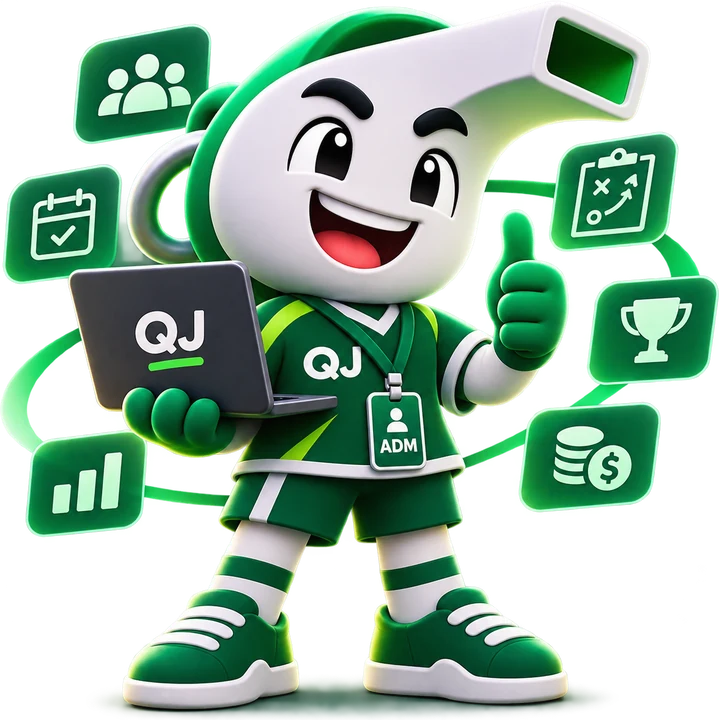
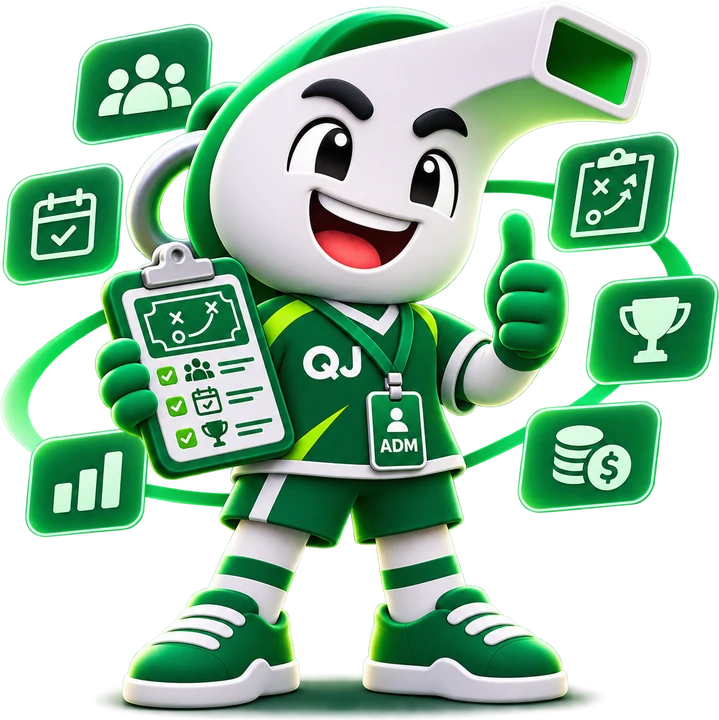
Atleta de futebol no Sou atleta e novo mascote do admin
- Mascote de atleta por esporte (src/esportes/mascotes.ts); o futebol tem o
  garoto de boné com a bola, os outros esportes usam o apito por enquanto
- Cartão Sou atleta e tela inicial vazia do atleta usam o atleta do esporte
- Busto esmaece embaixo para o corte da imagem não aparecer
- Mascote do admin trocado pela versão com a prancheta de checklist

Claude-Session: https://claude.ai/code/session_011be8tbVmCmRYNANTcDFUfj

diff --git a/frontend/src/pages/ChooseRole.tsx b/frontend/src/pages/ChooseRole.tsx
@@ -5,6 +5,7 @@ import { useAuth } from '../context/AuthContext'
 import { getEsporte } from '../esportes'
 import { AnimacaoAtiva } from '../esportes/cena'
 import { COR_DO_ESPORTE } from '../esportes/cores'
+import { MASCOTE_ADMIN, mascoteDoAtleta } from '../esportes/mascotes'
 import { lerEsporteAtual } from '../utils/esporteEscolhido'
 
 export default function ChooseRole() {
@@ -12,6 +13,7 @@ export default function ChooseRole() {
   const { isAuthenticated, loading } = useAuth()
   const escolhido = lerEsporteAtual()
   const esporte = escolhido ? getEsporte(escolhido) : null
+  const mascoteAtleta = mascoteDoAtleta(escolhido)
 
   useEffect(() => {
     if (!loading && isAuthenticated) {
@@ -88,7 +90,14 @@ export default function ChooseRole() {
             onClick={() => handleChoose('atleta')}
           >
             <div className="flex items-start gap-4">
-              <img src="/mascote/mascote.webp" alt="" width={649} height={719} className="h-20 w-20 shrink-0 object-contain" />
+              {/* Atleta do esporte escolhido (no futebol, o garoto com a bola); sem um próprio, o apito. */}
+              <img
+                src={mascoteAtleta.src}
+                alt=""
+                width={mascoteAtleta.largura}
+                height={mascoteAtleta.altura}
+                className={`h-20 w-20 shrink-0 object-contain ${mascoteAtleta.busto ? 'mascote-busto' : ''}`}
+              />
               <div className="text-left flex-1">
                 <h2 className="text-lg font-semibold text-white">Sou Atleta</h2>
                 <p className="text-sm text-gray-400 mt-1">
@@ -115,7 +124,7 @@ export default function ChooseRole() {
           >
             <div className="flex items-start gap-4">
               {/* Mascote de crachá ADM e notebook: o organizador do clube. */}
-              <img src="/mascote/mascote-admin.webp" alt="" width={719} height={720} className="h-20 w-20 shrink-0 object-contain" />
+              <img src={MASCOTE_ADMIN.src} alt="" width={MASCOTE_ADMIN.largura} height={MASCOTE_ADMIN.altura} className="h-20 w-20 shrink-0 object-contain" />
               <div className="text-left flex-1">
                 <h2 className="text-lg font-semibold text-white">Sou Administrador</h2>
                 <p className="text-sm text-gray-400 mt-1">

diff --git a/frontend/src/pages/Home.tsx b/frontend/src/pages/Home.tsx
@@ -29,6 +29,7 @@ import { useAuth } from '../context/AuthContext'
 import { useToast } from '../context/ToastContext'
 import { ESPORTES, esporteDaModalidade, getEsporte, getModalidade, temRecurso } from '../esportes'
 import type { EsporteId } from '../esportes'
+import { MASCOTE_ADMIN, mascoteDoAtleta } from '../esportes/mascotes'
 import type { Jogo, Noticia, Racha, Saldo } from '../types'
 import { differenceInCalendarDays, format } from 'date-fns'
 import { ptBR } from 'date-fns/locale'
@@ -384,6 +385,8 @@ export default function Home() {
   const EsporteIcone = currentRacha ? esporteDaModalidade(currentRacha.tipo).Icone : null
 
   const EsporteAtualIcone = esporteAtual ? getEsporte(esporteAtual).Icone : null
+  // Tela vazia: admin vê o mascote de crachá; atleta, o do esporte em que está.
+  const mascoteVazio = isAdmin ? MASCOTE_ADMIN : mascoteDoAtleta(esporteAtual)
 
   function trocarEsporte(id: EsporteId) {
     definirEsporteAtual(id)
@@ -446,11 +449,11 @@ export default function Home() {
         <div className="flex flex-col items-center justify-center px-6 py-12">
           {/* Clube vazio: o mascote recebe a pessoa no lugar de um ícone apagado. */}
           <img
-            src={isAdmin ? '/mascote/mascote-admin.webp' : '/mascote/mascote.webp'}
+            src={mascoteVazio.src}
             alt=""
-            width={isAdmin ? 719 : 649}
-            height={isAdmin ? 720 : 719}
-            className="mascote-flutuar mb-4 h-40 w-auto"
+            width={mascoteVazio.largura}
+            height={mascoteVazio.altura}
+            className={`mascote-flutuar mb-4 h-40 w-auto ${mascoteVazio.busto ? 'mascote-busto' : ''}`}
           />
           <h2 className="mb-2 text-center text-xl font-bold text-white">
             {esporteAtual ? `Nenhum clube de ${getEsporte(esporteAtual).nome.toLowerCase()} ainda` : 'Nenhum clube ainda'}

diff --git a/frontend/src/esportes/mascotes.ts b/frontend/src/esportes/mascotes.ts
@@ -1,0 +1,22 @@
+import type { EsporteId } from './types'
+
+// Mascotes do QuemJoga. O apito é o mascote geral; o admin tem o dele (crachá ADM e notebook)
+// e o atleta tem um por esporte. Esporte sem atleta próprio ainda usa o apito.
+export interface Mascote {
+  src: string
+  largura: number
+  altura: number
+  // Busto cortado embaixo: a imagem esmaece no pé para o corte não aparecer.
+  busto?: boolean
+}
+
+export const MASCOTE: Mascote = { src: '/mascote/mascote.webp', largura: 649, altura: 719 }
+export const MASCOTE_ADMIN: Mascote = { src: '/mascote/mascote-admin.webp', largura: 719, altura: 720 }
+
+const ATLETA_POR_ESPORTE: Partial<Record<EsporteId, Mascote>> = {
+  futebol: { src: '/mascote/atleta-futebol.webp', largura: 648, altura: 720, busto: true },
+}
+
+export function mascoteDoAtleta(esporte: EsporteId | null | undefined): Mascote {
+  return (esporte && ATLETA_POR_ESPORTE[esporte]) || MASCOTE
+}

diff --git a/frontend/src/index.css b/frontend/src/index.css
@@ -252,3 +252,9 @@ body {
     animation: none;
   }
 }
+
+/* Mascote em busto (cortado embaixo): esmaece o pé para o corte não ficar à vista. */
+.mascote-busto {
+  -webkit-mask-image: linear-gradient(to bottom, #000 78%, transparent);
+  mask-image: linear-gradient(to bottom, #000 78%, transparent);
+}
